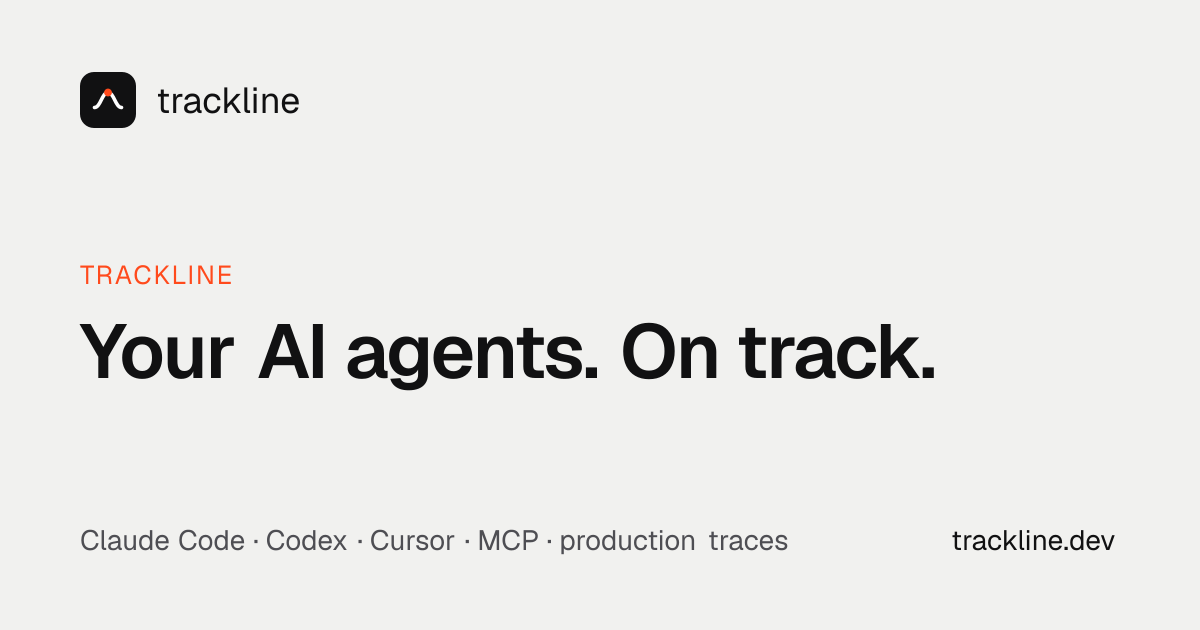
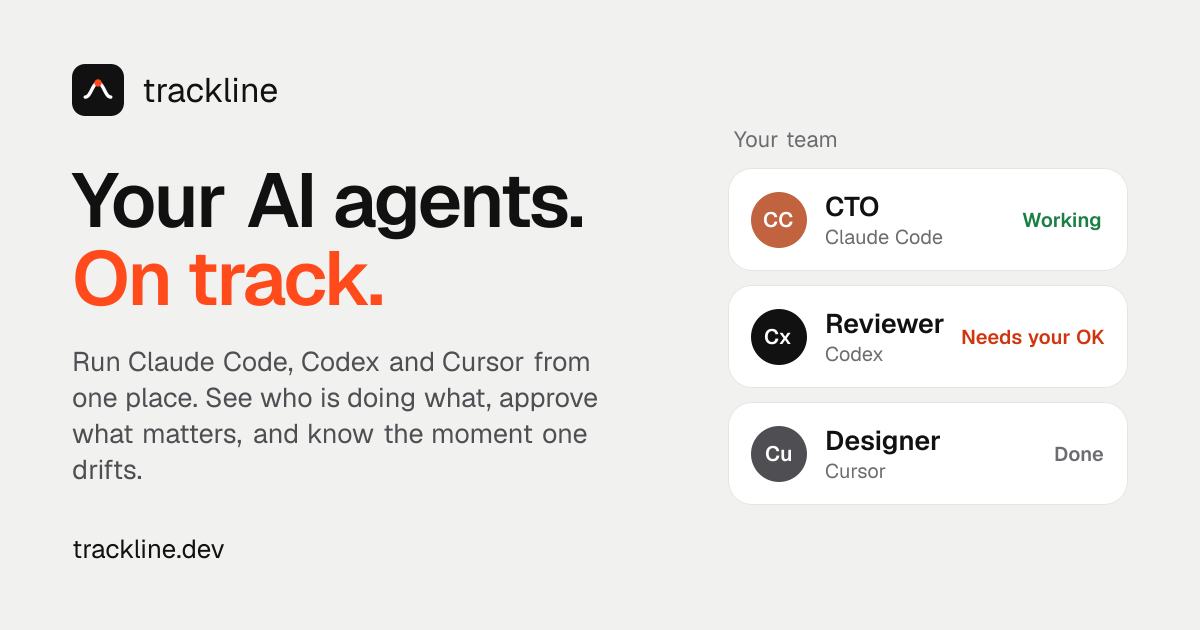
One description everywhere, and a share card that shows the product
The site head, share cards, home screen app and agent guide now read one
description from lib/site.ts; npm and the README carry the same words. The
home share card shows a team of agents and where each one is, at a new
address, since WhatsApp and X keep an image they have seen under its URL.
Lines that said every message needs a passkey now allow for the send password.

diff --git a/site/app/og/[card]/route.tsx b/site/app/og/[card]/route.tsx
@@ -1,7 +1,7 @@
 import { ImageResponse } from "next/og";
 import { cardFor, cards } from "@/lib/cards";
 import { ogKey } from "@/lib/seo";
-import { SITE } from "@/lib/site";
+import { DESCRIPTION, SITE, TAGLINE } from "@/lib/site";
 
 export const dynamic = "force-static";
 export const dynamicParams = false;
@@ -30,6 +30,7 @@ export async function GET(_: Request, { params }: { params: Promise<{ card: stri
     ...(semibold ? [{ name: "Geist", data: semibold, weight: 600 as const, style: "normal" as const }] : []),
   ];
   const size = card.title.length > 44 ? 64 : 76;
+  if (card.path === "/") return new ImageResponse(<Home />, { width: 1200, height: 630, fonts: fonts.length ? fonts : undefined });
 
   return new ImageResponse(
     (
@@ -54,5 +55,53 @@ export async function GET(_: Request, { params }: { params: Promise<{ card: stri
       </div>
     ),
     { width: 1200, height: 630, fonts: fonts.length ? fonts : undefined },
+  );
+}
+
+const TEAM = [
+  { mark: "CC", tone: "#c1633f", title: "CTO", tool: "Claude Code", status: "Working", ink: "#1a7f43" },
+  { mark: "Cx", tone: "#111112", title: "Reviewer", tool: "Codex", status: "Needs your OK", ink: "#cf360e" },
+  { mark: "Cu", tone: "#4e4e53", title: "Designer", tool: "Cursor", status: "Done", ink: "#6b6b70" },
+];
+
+// The home card is what a link to trackline looks like in WhatsApp, X or
+// Slack, so it shows the product: a team of agents and where each one is.
+// Small previews crop to the middle, so the words stay large and on the left.
+function Home() {
+  return (
+    <div style={{ width: "100%", height: "100%", display: "flex", background: "#f1f1ef", padding: "64px 72px", fontFamily: "Geist", gap: 56 }}>
+      <div style={{ display: "flex", flexDirection: "column", flex: 1 }}>
+        <div style={{ display: "flex", alignItems: "center", gap: 18 }}>
+          <div style={{ width: 52, height: 52, borderRadius: 13, background: "#111112", display: "flex", alignItems: "center", justifyContent: "center" }}>
+            <svg width="34" height="34" viewBox="0 0 24 24" fill="none">
+              <path d="M3 17c4 0 5-10 9-10s5 10 9 10" stroke="#ffffff" strokeWidth="2.4" strokeLinecap="round" />
+              <circle cx="12" cy="7" r="2.6" fill="#ff4a1c" />
+            </svg>
+          </div>
+          <div style={{ fontSize: 34, color: "#111112" }}>trackline</div>
+        </div>
+        <div style={{ display: "flex", flexDirection: "column", marginTop: "auto", marginBottom: "auto" }}>
+          <div style={{ fontSize: 76, fontWeight: 600, color: "#111112", lineHeight: 1.02, letterSpacing: -2.5, display: "flex", flexDirection: "column" }}>
+            <span>{TAGLINE.split(". ")[0]}.</span>
+            <span style={{ color: "#ff4a1c" }}>{TAGLINE.split(". ")[1]}</span>
+          </div>
+          <div style={{ fontSize: 27, color: "#4e4e53", lineHeight: 1.35, marginTop: 26, maxWidth: 560 }}>{DESCRIPTION}</div>
+        </div>
+        <div style={{ fontSize: 26, color: "#111112" }}>{SITE.replace(/^https:\/\//, "")}</div>
+      </div>
+      <div style={{ width: 400, display: "flex", flexDirection: "column", justifyContent: "center", gap: 14 }}>
+        <div style={{ fontSize: 22, color: "#6b6b70", marginLeft: 6 }}>Your team</div>
+        {TEAM.map((t) => (
+          <div key={t.title} style={{ display: "flex", alignItems: "center", gap: 18, background: "#ffffff", borderRadius: 24, padding: "20px 22px", border: "1px solid #e4e4e0" }}>
+            <div style={{ width: 56, height: 56, borderRadius: 28, background: t.tone, color: "#ffffff", display: "flex", alignItems: "center", justifyContent: "center", fontSize: 21, fontWeight: 600 }}>{t.mark}</div>
+            <div style={{ display: "flex", flexDirection: "column", flex: 1 }}>
+              <div style={{ fontSize: 27, fontWeight: 600, color: "#111112" }}>{t.title}</div>
+              <div style={{ fontSize: 20, color: "#6b6b70" }}>{t.tool}</div>
+            </div>
+            <div style={{ fontSize: 20, fontWeight: 600, color: t.ink }}>{t.status}</div>
+          </div>
+        ))}
+      </div>
+    </div>
   );
 }

diff --git a/site/app/page.tsx b/site/app/page.tsx
@@ -2,7 +2,7 @@ import type { Metadata } from "next";
 import { Doto } from "next/font/google";
 import Link from "next/link";
 import InstallPrompt from "@/components/landing/InstallPrompt";
-import { SITE } from "@/lib/site";
+import { DESCRIPTION, SITE } from "@/lib/site";
 import "./landing.css";
 
 // One idea a section, and the product itself in place of a list of features.
@@ -44,8 +44,7 @@ export default function Home() {
             name: "trackline",
             applicationCategory: "DeveloperApplication",
             operatingSystem: "macOS, Linux, Windows",
-            description:
-              "Run Claude Code, Codex and Cursor from one place. See who is doing what, approve what matters, and know the moment one drifts.",
+            description: DESCRIPTION,
             url: SITE,
             downloadUrl: "https://www.npmjs.com/package/trackline",
             offers: { "@type": "Offer", price: "0", priceCurrency: "USD" },
@@ -54,7 +53,7 @@ export default function Home() {
       />
       <section className="land-hero land-wrap">
         <h1>Your AI agents.<br /><span className="land-dot">On track.</span></h1>
-        <p className="land-sub">Run Claude Code, Codex and Cursor from one place. See who is doing what, approve what matters, and know the moment one drifts.</p>
+        <p className="land-sub">{DESCRIPTION}</p>
         <InstallPrompt second={{ href: "#product", label: "See how it works" }} />
         <p className="land-small">Free and open source. Your agents keep running on your own computer.</p>
       </section>
@@ -129,7 +128,7 @@ export default function Home() {
       <section className="land-wrap land-section land-phone">
         <div>
           <h2 className="land-h2">Leave your desk. Not your work.</h2>
-          <p className="land-sub">Send a message from your phone and it continues on your computer, with the same history. Every message is signed with your passkey.</p>
+          <p className="land-sub">Send a message from your phone and it continues on your computer, with the same history. Your computer checks every message before it runs.</p>
         </div>
         <div className="land-device" aria-hidden="true">
           <div>

diff --git a/site/app/layout.tsx b/site/app/layout.tsx
@@ -4,14 +4,11 @@ import Link from "next/link";
 import AccountButton from "@/components/AccountButton";
 import Mark from "@/components/Mark";
 import Search from "@/components/Search";
-import { GITHUB, SITE } from "@/lib/site";
+import { DESCRIPTION, GITHUB, SITE } from "@/lib/site";
 import "./globals.css";
 
 const sans = Geist({ subsets: ["latin"], variable: "--font-sans" });
 const mono = Geist_Mono({ subsets: ["latin"], variable: "--font-mono" });
-
-const DESCRIPTION =
-  "Run Claude Code, Codex and Cursor from one place. See who is doing what, approve what matters, and know the moment one drifts.";
 
 // metadataBase makes every relative URL below absolute on trackline.dev,
 // including the canonical, so the old vercel.app address never competes with
@@ -27,11 +24,11 @@ export const metadata: Metadata = {
     siteName: "trackline",
     title: "trackline: your AI agents, on track",
     description: DESCRIPTION,
-    // A real .png file: the static build wrote the generated card with no
-    // extension, and some link previews reject an image served without one.
-    images: [{ url: "/og.png", width: 1200, height: 630, alt: "trackline: your AI agents, on track" }],
+    // The home share card, drawn by app/og with the rest. A new address on
+    // purpose: WhatsApp and X keep an image they have seen under its URL.
+    images: [{ url: "/og/home.png", width: 1200, height: 630, alt: "trackline: your AI agents, on track" }],
   },
-  twitter: { card: "summary_large_image", images: ["/og.png"] },
+  twitter: { card: "summary_large_image", title: "trackline: your AI agents, on track", description: DESCRIPTION, images: ["/og/home.png"] },
   robots: { index: true, follow: true },
   // Added to a phone's home screen, the dashboard opens as an app, which is
   // what lets an iPhone receive its alerts.

diff --git a/site/app/llms.txt/route.ts b/site/app/llms.txt/route.ts
@@ -14,7 +14,7 @@ export function GET() {
 
 Neutral by construction: an open engine that runs on the user's machine, the same way for every agent. Without an account it sends nothing anywhere.
 
-With an optional account, a dashboard scores how on track each agent is, and the user can send tasks to Claude Code, Codex or Cursor on their own laptop from their phone, watch them, and allow once or keep blocked what trackline stopped. Every task is signed with the user's passkey and checked on the laptop.
+With an optional account, a dashboard scores how on track each agent is, and the user can send tasks to Claude Code, Codex or Cursor on their own laptop from their phone, watch them, and allow once or keep blocked what trackline stopped. Every task is signed on the user's device, with a passkey or a send password set on the laptop, and checked on the laptop before it runs.
 
 To install it for a user in their project, follow ${SITE}/install.md
 

diff --git a/site/lib/site.ts b/site/lib/site.ts
@@ -6,6 +6,13 @@ export const EXPERIMENTS = `${GITHUB}/blob/main/docs/experiments`;
 // resolving for prompts already pasted.
 export const SITE = "https://trackline.dev";
 
+// The one description of trackline. The page head, share cards, the home
+// screen app and the agent guide all read it; npm, the README and the GitHub
+// repo carry the same words by hand.
+export const TAGLINE = "Your AI agents. On track.";
+export const DESCRIPTION =
+  "Run Claude Code, Codex and Cursor from one place. See who is doing what, approve what matters, and know the moment one drifts.";
+
 // What "Copy prompt for your agent" puts on the clipboard. It carries the
 // essential steps itself, because not every agent can fetch a URL (Codex runs
 // without network by default), and points at /install.md for the rest.

diff --git a/site/app/app/remote/Remote.tsx b/site/app/app/remote/Remote.tsx
@@ -305,7 +305,7 @@ function JobChat({ id, onNew, open }: { id: string; onNew: () => void; open: (id
             chat={job?.session ?? id}
             placeholder={job?.asked ? `Answer ${agentName(job.agent)}…` : `Reply to ${agentName(job?.agent)}…`}
             blocked={!job ? "Loading…" : live ? `${agentName(job.agent)} is still working. Reply when it has finished.` : !canContinue ? "This task has no session to continue." : undefined}
-            note={`Signed with your passkey · continues this session on ${machineName}`}
+            note={`Checked by your computer · continues this session on ${machineName}`}
             onSend={send}
           />
         </div>

diff --git a/site/app/manifest.ts b/site/app/manifest.ts
@@ -1,4 +1,5 @@
 import type { MetadataRoute } from "next";
+import { DESCRIPTION } from "@/lib/site";
 
 export const dynamic = "force-static";
 
@@ -6,7 +7,7 @@ export default function manifest(): MetadataRoute.Manifest {
   return {
     name: "trackline",
     short_name: "trackline",
-    description: "Watch your coding agents, and hear when one needs you.",
+    description: DESCRIPTION,
     start_url: "/app",
     scope: "/",
     display: "standalone",

diff --git a/engine/cmd/trackline/connect.go b/engine/cmd/trackline/connect.go
@@ -172,7 +172,7 @@ func connectRemote(root, name string, o connectOptions, ask func(string, bool) b
 			return
 		}
 	}
-	fmt.Printf("You can reply to %s from your phone. Every message needs your passkey.\n", name)
+	fmt.Printf("You can reply to %s from your phone. Every message needs your passkey or send password.\n", name)
 }
 
 // shareChoice settles whether a project's messages go with its findings.

diff --git a/README.md b/README.md
@@ -1,6 +1,7 @@
 # trackline
 
-**Watches whether an AI coding agent is still doing what you asked.**
+**Your AI agents, on track.** Run Claude Code, Codex and Cursor from one place:
+see who is doing what, approve what matters, and know the moment one drifts.
 
 An agent that goes off task does not crash. It edits files you never mentioned,
 installs a package nobody asked for, ignores the rules file it read an hour ago
